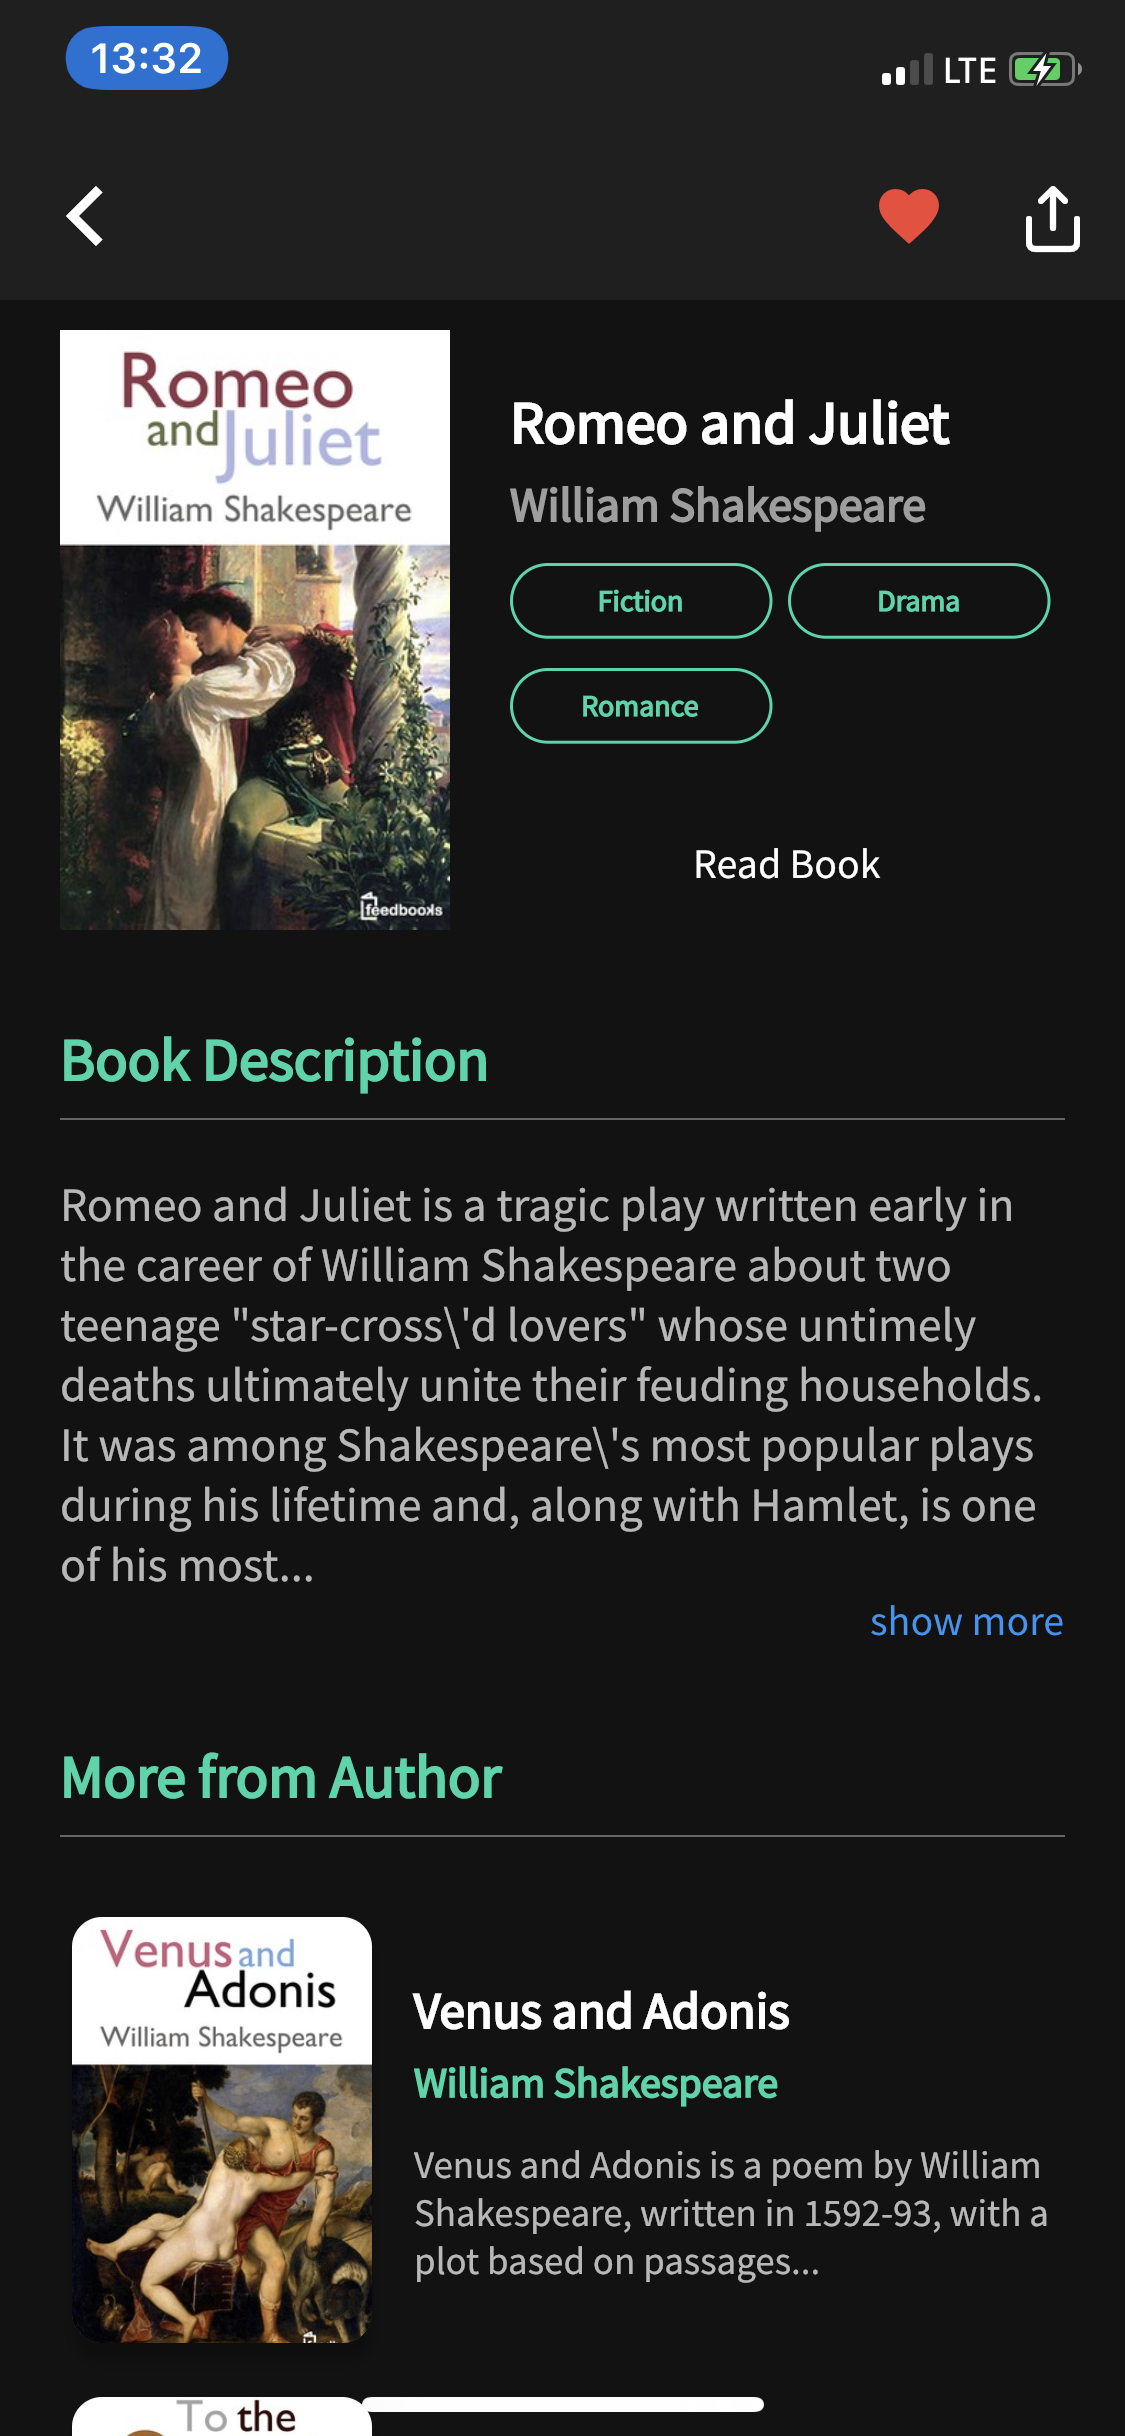
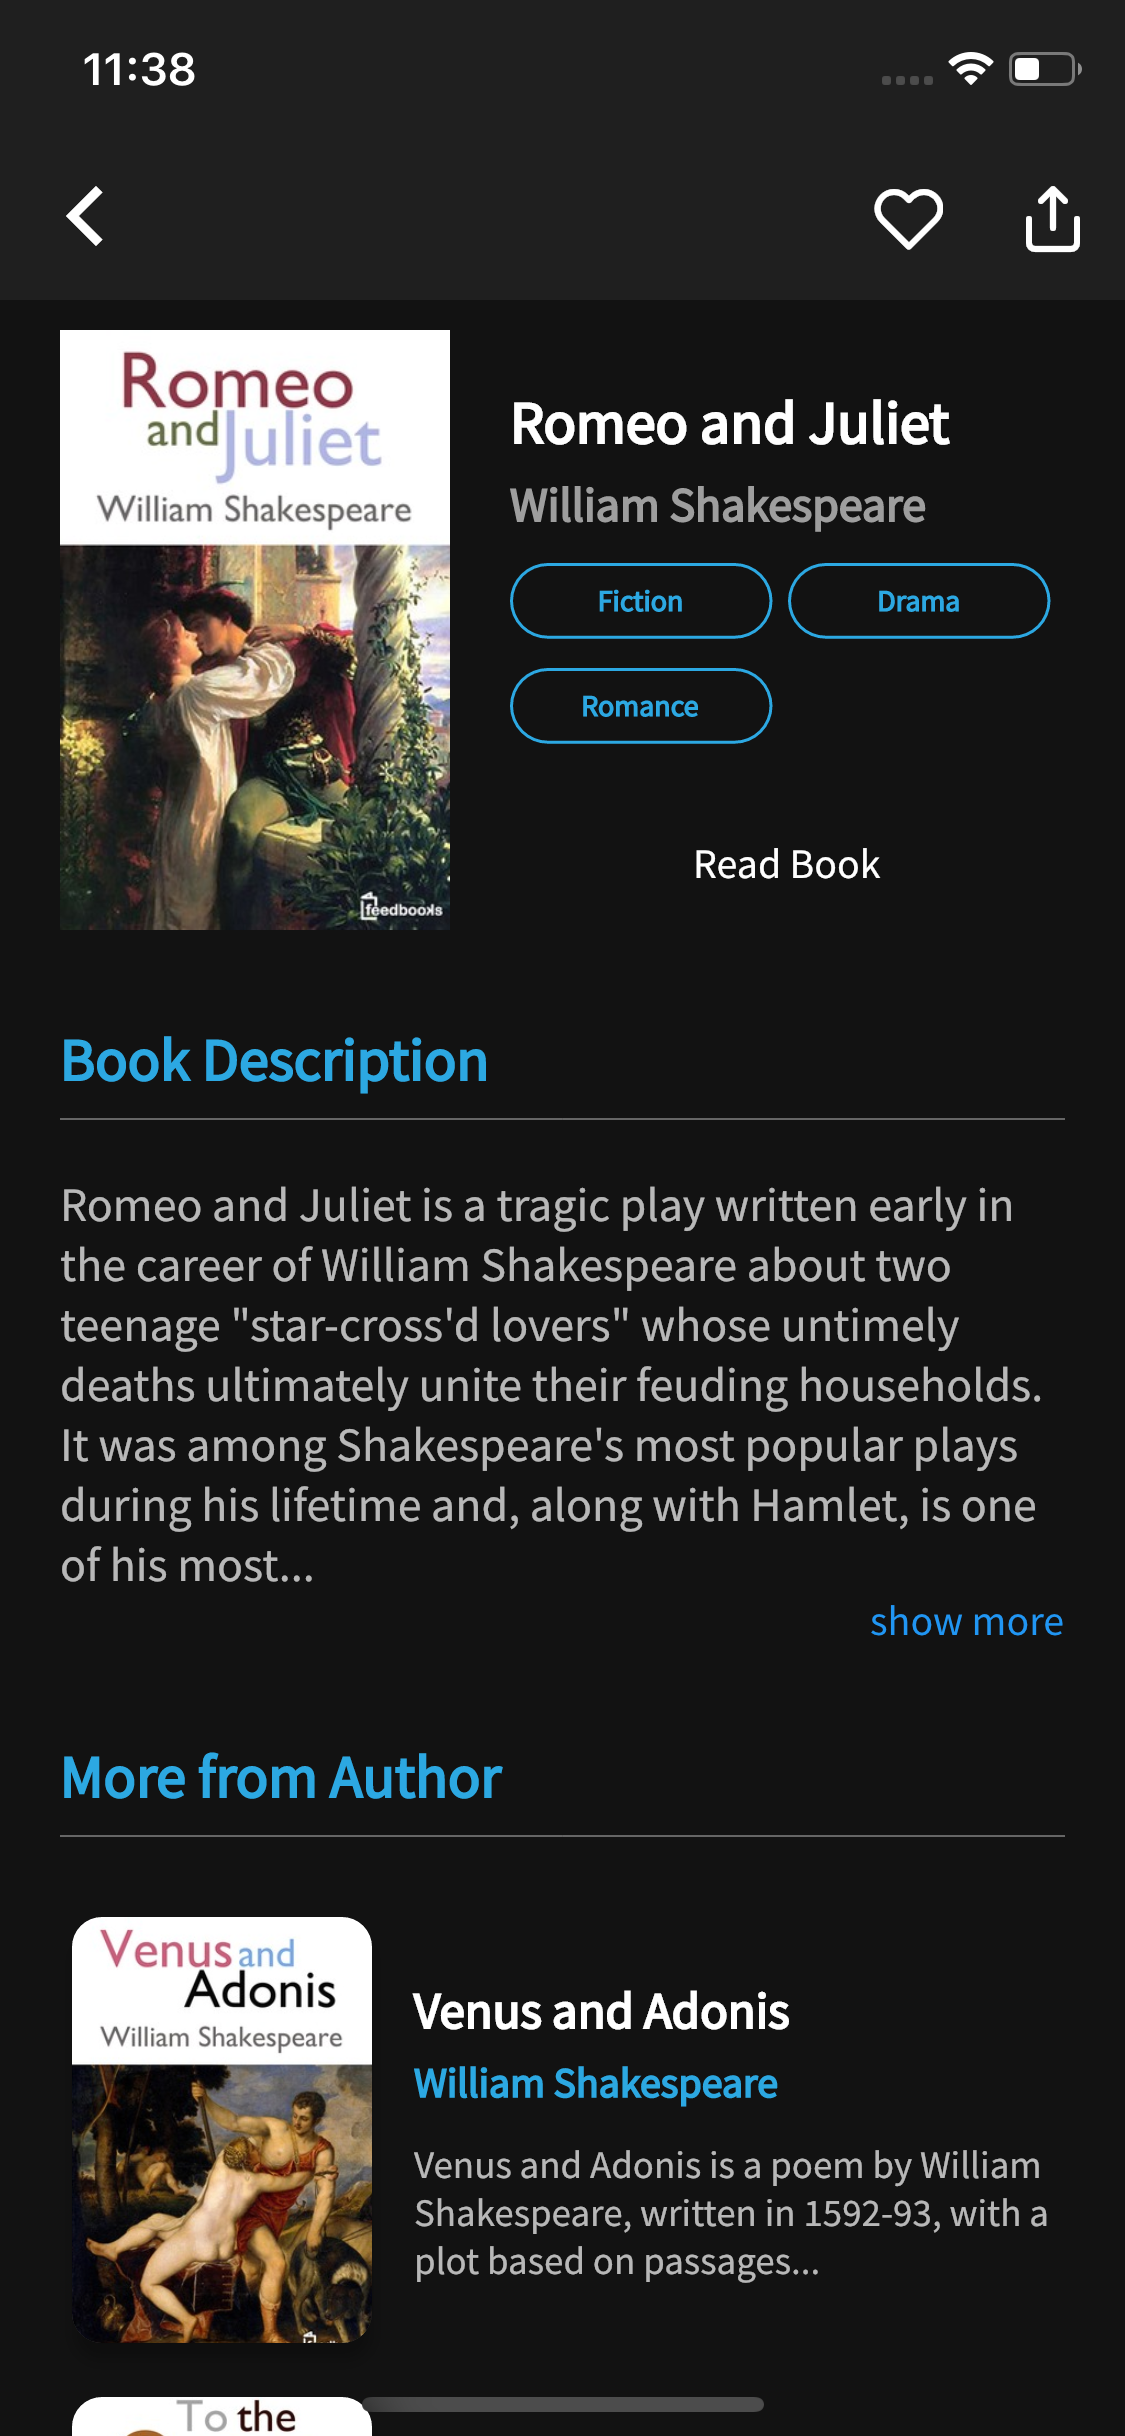
New dark mode screenshots

diff --git a/README.md b/README.md
@@ -33,7 +33,7 @@ Please star⭐ the repo if you like what you see😉.
 
 ## 📸 ScreenShots
 
-<img src="ss/mockup.png"/>
+<!-- <img src="ss/mockup.png"/> -->
 
 | Light| Dark|
 |------|-------|
